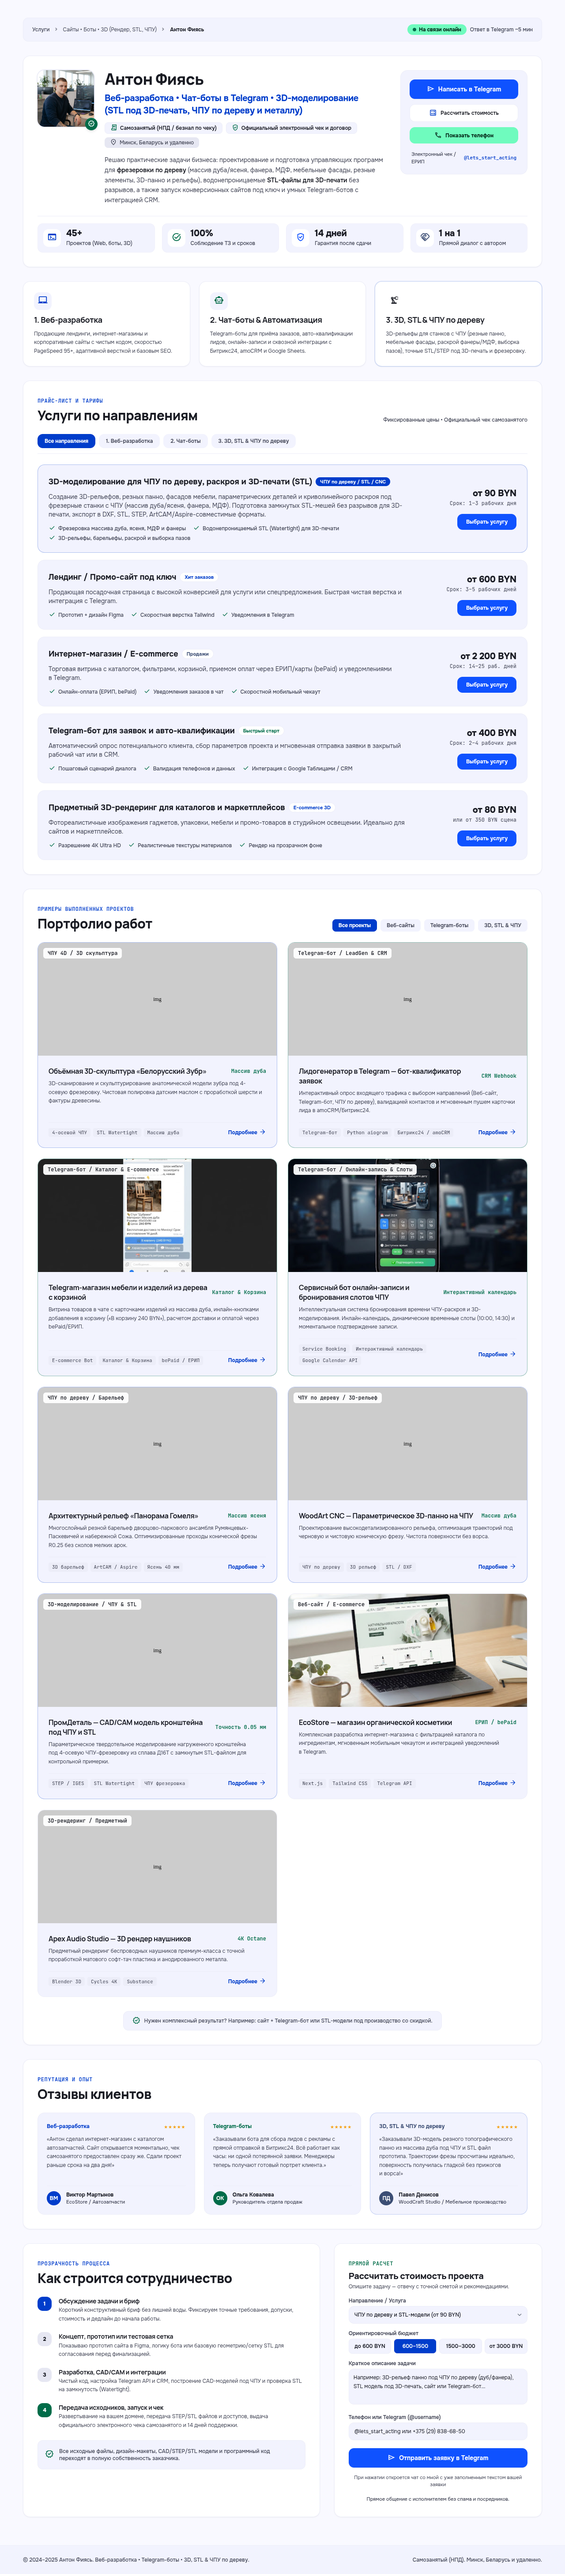
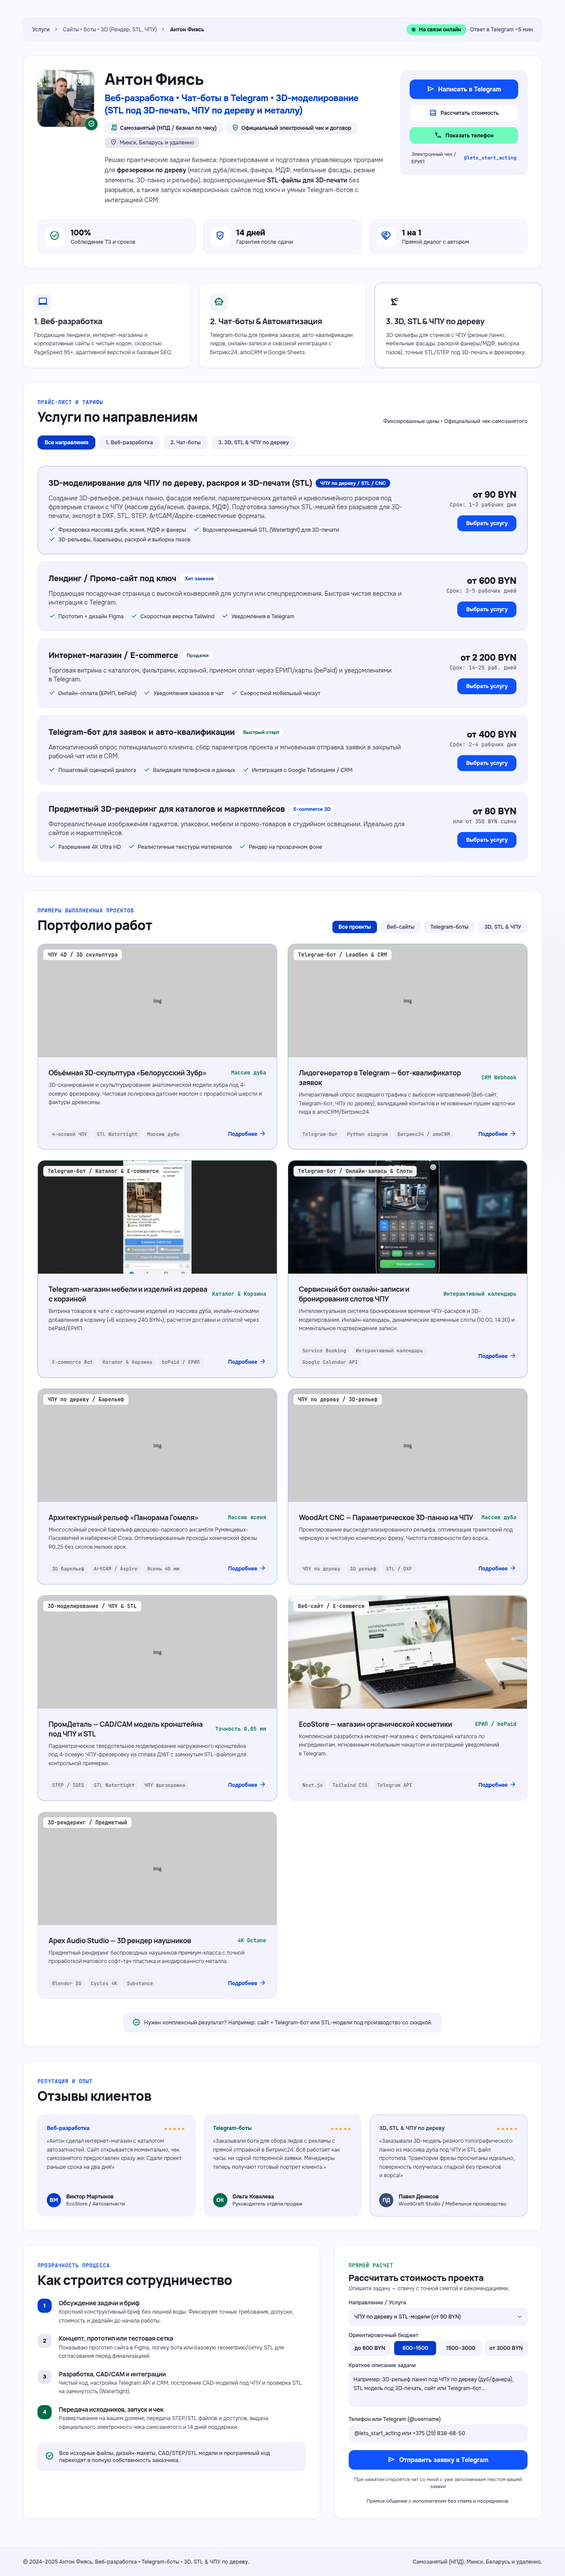
Add files via upload

diff --git a/index.html b/index.html
@@ -56,9 +56,54 @@
     }
     ::-webkit-scrollbar { display: none; }
   </style>
-</head>
-<body class="bg-surface font-sans text-on-surface antialiased min-h-screen selection:bg-primary-container selection:text-white">
-<main class="w-full pt-6 md:pt-10 pb-16">
+<style id="interactive-dynamics-style">
+  .service-card, .portfolio-item {
+    transition: transform 0.3s cubic-bezier(0.16, 1, 0.3, 1), box-shadow 0.3s cubic-bezier(0.16, 1, 0.3, 1), border-color 0.3s ease, background-color 0.3s ease;
+  }
+  .service-card:hover, .portfolio-item:hover {
+    transform: translateY(-4px);
+    box-shadow: 0 16px 32px -8px rgba(0, 61, 203, 0.1), 0 8px 16px -6px rgba(0, 0, 0, 0.04);
+  }
+  .shimmer-cta {
+    position: relative;
+    overflow: hidden;
+  }
+  .shimmer-cta::after {
+    content: '';
+    position: absolute;
+    top: -50%;
+    left: -75%;
+    width: 50%;
+    height: 200%;
+    background: linear-gradient(90deg, transparent, rgba(255, 255, 255, 0.25), transparent);
+    transform: rotate(25deg);
+    transition: none;
+    pointer-events: none;
+  }
+  .shimmer-cta:hover::after {
+    left: 130%;
+    transition: all 0.75s ease-in-out;
+  }
+  @keyframes pulse-ring {
+    0% { transform: scale(0.95); opacity: 0.8; }
+    50% { transform: scale(1.6); opacity: 0; }
+    100% { transform: scale(1.6); opacity: 0; }
+  }
+  .status-ring {
+    position: relative;
+    display: inline-flex;
+  }
+  .status-ring::before {
+    content: '';
+    position: absolute;
+    inset: 0;
+    border-radius: 9999px;
+    background-color: currentColor;
+    animation: pulse-ring 2s cubic-bezier(0.4, 0, 0.6, 1) infinite;
+  }
+</style></head>
+<body class="bg-surface font-sans text-on-surface antialiased min-h-screen selection:bg-primary-container selection:text-white"><div class="fixed inset-0 pointer-events-none z-0 overflow-hidden" aria-hidden="true"><div class="absolute -top-[20%] -left-[10%] w-[60vw] h-[60vw] rounded-full bg-primary/5 blur-3xl" style="animation: ambient-breathe 6s ease-in-out infinite alternate;"></div><div class="absolute top-[35%] -right-[15%] w-[50vw] h-[50vw] rounded-full bg-secondary/5 blur-3xl" style="animation: ambient-breathe 8s ease-in-out infinite alternate-reverse;"></div><div class="absolute -bottom-[15%] left-[20%] w-[55vw] h-[55vw] rounded-full bg-primary/4 blur-3xl" style="animation: ambient-breathe 7s ease-in-out infinite alternate;"></div><style>@keyframes ambient-breathe { 0% { transform: scale(0.92) translate(0, 0); opacity: 0.55; } 50% { transform: scale(1.08) translate(15px, -15px); opacity: 0.95; } 100% { transform: scale(1.0) translate(-10px, 10px); opacity: 0.7; } }</style></div>
+<main class="w-full pt-6 md:pt-10 pb-16 relative">
 <div class="max-w-[1240px] mx-auto px-4 sm:px-6 lg:px-8 flex flex-col gap-8">
 <!-- Breadcrumbs & Status -->
 <section class="flex flex-col sm:flex-row sm:items-center justify-between gap-3 bg-surface-container-low px-5 py-3.5 rounded-xl border border-surface-container shadow-xs">
@@ -70,10 +115,7 @@
 <span class="text-on-surface font-bold">Антон Фиясь</span>
 </div>
 <div class="flex items-center gap-2 shrink-0">
-<span class="inline-flex items-center gap-1.5 px-3 py-1 rounded-full bg-secondary-fixed text-on-secondary-fixed text-xs font-bold tracking-tight">
-<span class="w-2 h-2 rounded-full bg-secondary animate-pulse"></span>
-            На связи онлайн
-          </span>
+<span class="inline-flex items-center gap-1.5 px-3 py-1 rounded-full bg-secondary-fixed text-on-secondary-fixed text-xs font-bold tracking-tight"><span class="relative flex h-2 w-2 items-center justify-center mr-0.5 text-secondary status-ring"><span class="w-2 h-2 rounded-full bg-secondary shrink-0"></span></span> На связи онлайн</span>
 <span class="text-xs text-on-surface-variant font-medium whitespace-nowrap">Ответ в Telegram ~5 мин</span>
 </div>
 </section>
@@ -117,7 +159,7 @@
 </div>
 <!-- Action CTA -->
 <div class="w-full lg:w-72 shrink-0 flex flex-col gap-3 bg-surface-container-low p-5 rounded-2xl border border-surface-container shadow-xs">
-<a class="w-full inline-flex items-center justify-center gap-2 px-5 py-3 rounded-xl bg-primary-container text-white font-bold text-sm hover:bg-primary transition shadow-sm" href="https://t.me/lets_start_acting" rel="noopener noreferrer" target="_blank">
+<a class="w-full inline-flex items-center justify-center gap-2 px-5 py-3 rounded-xl bg-primary-container text-white font-bold text-sm hover:bg-primary transition shadow-sm shimmer-cta" href="https://t.me/lets_start_acting" rel="noopener noreferrer" target="_blank">
 <span class="material-symbols-outlined text-[18px]">send</span>
               Написать в Telegram
             </a>
@@ -134,46 +176,9 @@
 <span class="font-mono text-primary font-bold">@lets_start_acting</span>
 </div>
 </div>
-</div>
+</div><div class="grid grid-cols-1 md:grid-cols-3 gap-4 pt-2"><div class="bg-surface-container-low/70 border border-surface-container rounded-2xl p-4 flex items-center gap-3.5 shadow-xs"><div class="w-11 h-11 rounded-xl bg-surface-container-lowest shadow-xs flex items-center justify-center shrink-0"><span class="material-symbols-outlined text-secondary text-[24px]">check_circle</span></div><div><div class="text-lg font-extrabold text-on-surface leading-tight tracking-tight">100%</div><div class="text-xs text-on-surface-variant font-medium mt-0.5">Соблюдение ТЗ и сроков</div></div></div><div class="bg-surface-container-low/70 border border-surface-container rounded-2xl p-4 flex items-center gap-3.5 shadow-xs"><div class="w-11 h-11 rounded-xl bg-surface-container-lowest shadow-xs flex items-center justify-center shrink-0"><span class="material-symbols-outlined text-primary text-[24px]">verified_user</span></div><div><div class="text-lg font-extrabold text-on-surface leading-tight tracking-tight">14 дней</div><div class="text-xs text-on-surface-variant font-medium mt-0.5">Гарантия после сдачи</div></div></div><div class="bg-surface-container-low/70 border border-surface-container rounded-2xl p-4 flex items-center gap-3.5 shadow-xs"><div class="w-11 h-11 rounded-xl bg-surface-container-lowest shadow-xs flex items-center justify-center shrink-0"><span class="material-symbols-outlined text-primary text-[24px]">handshake</span></div><div><div class="text-lg font-extrabold text-on-surface leading-tight tracking-tight">1 на 1</div><div class="text-xs text-on-surface-variant font-medium mt-0.5">Прямой диалог с автором</div></div></div></div>
 <!-- Metrics Row -->
-<div class="grid grid-cols-2 lg:grid-cols-4 gap-3 sm:gap-4 pt-4 border-t border-surface-container">
-<div class="flex items-center gap-3 p-3 bg-surface-container-low rounded-xl border border-surface-container/60 min-w-0">
-<div class="w-10 h-10 rounded-xl bg-white flex items-center justify-center text-primary shadow-xs shrink-0">
-<span class="material-symbols-outlined text-[22px]">terminal</span>
-</div>
-<div class="min-w-0 flex-1">
-<div class="text-xl font-extrabold text-on-surface tracking-tight leading-none">45+</div>
-<div class="text-xs text-on-surface-variant font-medium mt-1 truncate">Проектов (Web, боты, 3D)</div>
-</div>
-</div>
-<div class="flex items-center gap-3 p-3 bg-surface-container-low rounded-xl border border-surface-container/60 min-w-0">
-<div class="w-10 h-10 rounded-xl bg-white flex items-center justify-center text-secondary shadow-xs shrink-0">
-<span class="material-symbols-outlined text-[22px]">task_alt</span>
-</div>
-<div class="min-w-0 flex-1">
-<div class="text-xl font-extrabold text-on-surface tracking-tight leading-none whitespace-nowrap">100%</div>
-<div class="text-xs text-on-surface-variant font-medium mt-1 truncate">Соблюдение ТЗ и сроков</div>
-</div>
-</div>
-<div class="flex items-center gap-3 p-3 bg-surface-container-low rounded-xl border border-surface-container/60 min-w-0">
-<div class="w-10 h-10 rounded-xl bg-white flex items-center justify-center text-primary-container shadow-xs shrink-0">
-<span class="material-symbols-outlined text-[22px]">verified_user</span>
-</div>
-<div class="min-w-0 flex-1">
-<div class="text-xl font-extrabold text-on-surface tracking-tight leading-none whitespace-nowrap">14 дней</div>
-<div class="text-xs text-on-surface-variant font-medium mt-1 truncate">Гарантия после сдачи</div>
-</div>
-</div>
-<div class="flex items-center gap-3 p-3 bg-surface-container-low rounded-xl border border-surface-container/60 min-w-0">
-<div class="w-10 h-10 rounded-xl bg-white flex items-center justify-center text-tertiary shadow-xs shrink-0">
-<span class="material-symbols-outlined text-[22px]">handshake</span>
-</div>
-<div class="min-w-0 flex-1">
-<div class="text-xl font-extrabold text-on-surface tracking-tight leading-none whitespace-nowrap">1 на 1</div>
-<div class="text-xs text-on-surface-variant font-medium mt-1 truncate">Прямой диалог с автором</div>
-</div>
-</div>
-</div>
+
 </section>
 <!-- 3 Key Pillars -->
 <section class="grid grid-cols-1 md:grid-cols-3 gap-5">
@@ -794,7 +799,7 @@
 <label class="block text-xs font-semibold text-on-surface-variant mb-1">Телефон или Telegram (@username)</label>
 <input class="w-full h-10 px-3 rounded-xl bg-surface-container-low border border-surface-container text-xs text-on-surface focus:ring-2 focus:ring-primary focus:outline-none" id="order-contact" placeholder="@lets_start_acting или +375 (29) 838-68-50" required="" type="text">
 </div>
-<button class="w-full h-11 inline-flex items-center justify-center gap-2 rounded-xl bg-primary-container text-white text-xs sm:text-sm font-bold hover:bg-primary transition shadow-sm mt-1 whitespace-nowrap" type="submit">
+<button class="w-full h-11 inline-flex items-center justify-center gap-2 rounded-xl bg-primary-container text-white text-xs sm:text-sm font-bold hover:bg-primary transition shadow-sm mt-1 whitespace-nowrap shimmer-cta" type="submit">
 <span class="material-symbols-outlined text-[18px] shrink-0">send</span>
               Отправить заявку в Telegram
             </button>
@@ -1107,7 +1112,9 @@
   </script>
 
 
-</body><div class="dictionaries-tooltip" style="display: none;">
+
+
+<div class="dictionaries-tooltip" style="display: none;">
     <div class="fairydict-spinner">
     <div class="fairydict-bounce1"></div>
     <div class="fairydict-bounce2"></div>
@@ -1115,4 +1122,4 @@
     </div>
     <div class="dictionaries-tooltip-content">
     </div>
-</div></html>
+</div></body></html>
